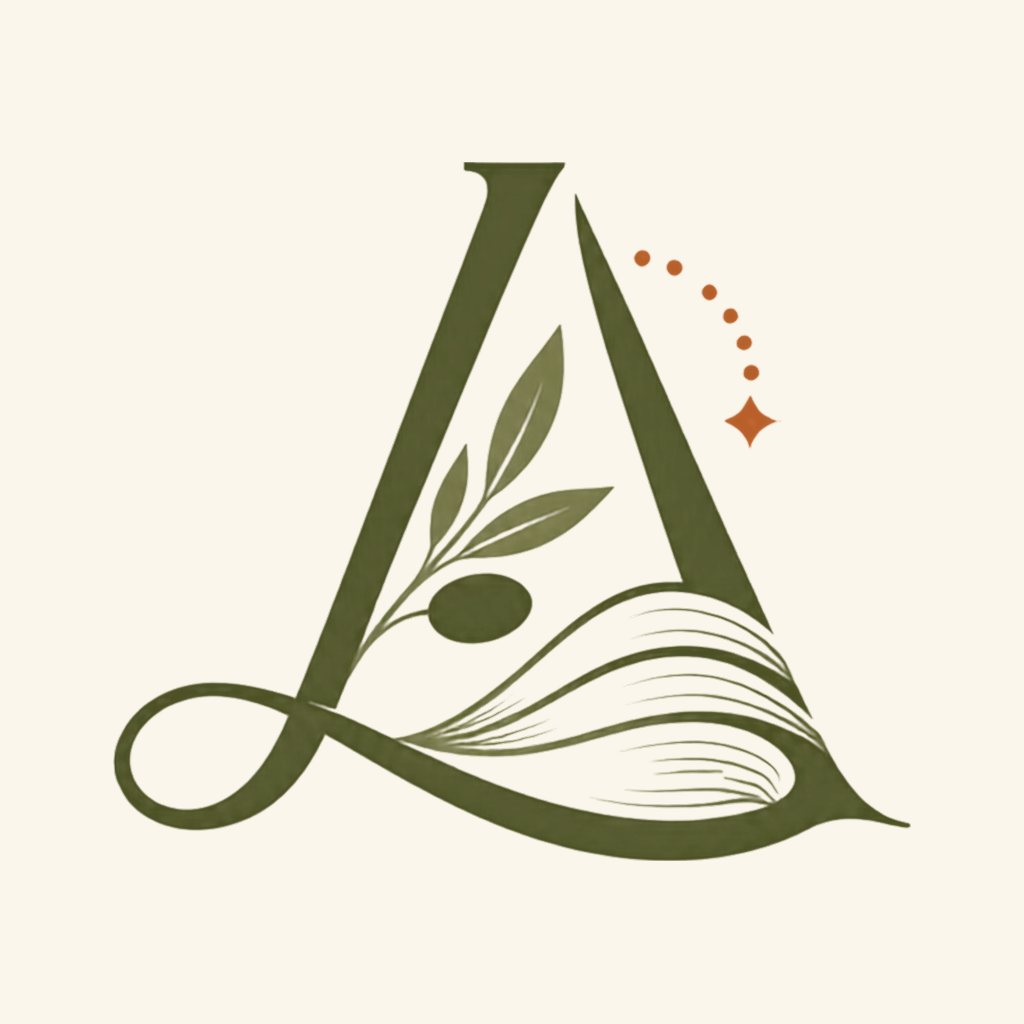
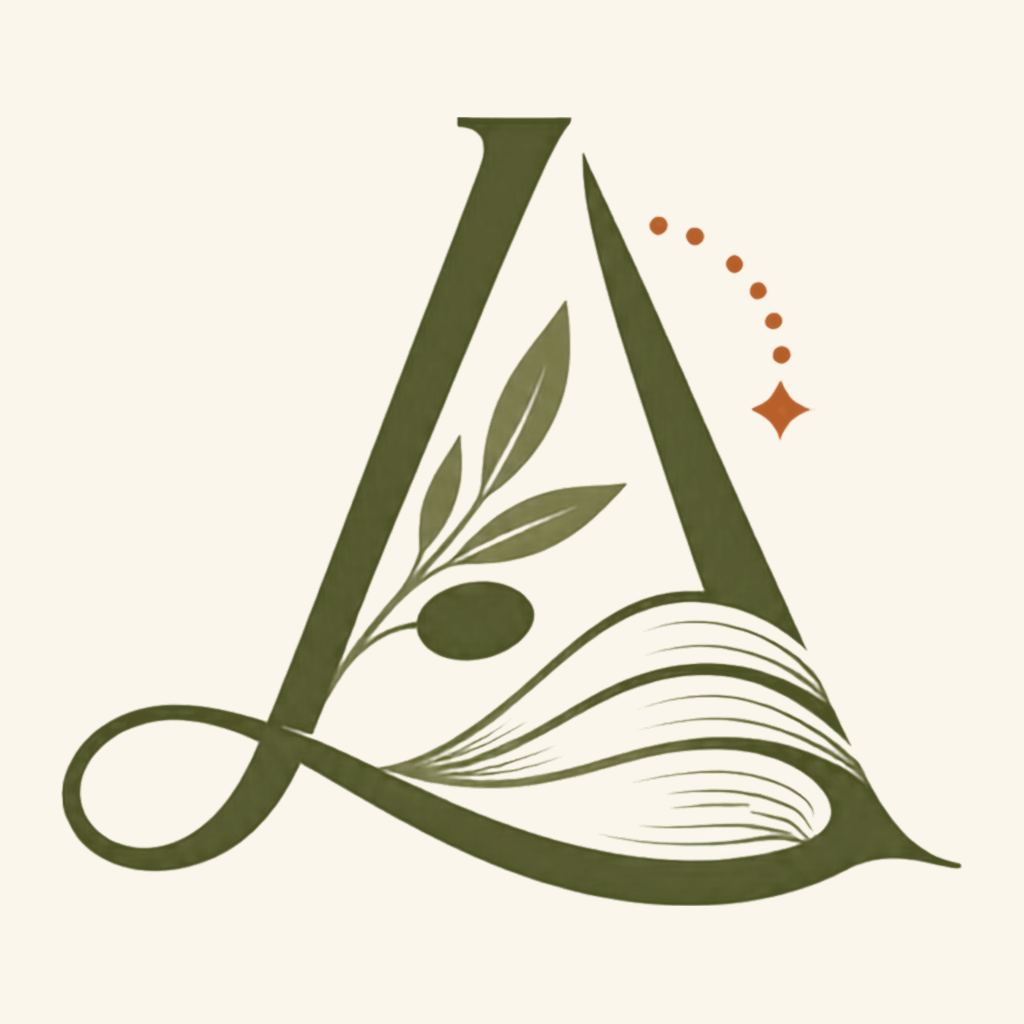
fix(marka): ikon maskeyi dolduruyor — ve splash 280 dp Android 12+'ta kırpılırdı (21.116)
CİHAZDA GÖRÜLDÜ, SONRA ÖLÇÜLDÜ. Kullanıcı ikonun daire içinde küçük durduğunu
söyledi ve dairenin nereden geldiğini sordu.

DAİRE BİZİM DEĞİL: Google'ın belgesi net — "each device OEM MUST provide a mask,
which the system uses to render all adaptive icons with the same shape".
Android 8+'ta kapatılamıyor; adaptiveIcon kaldırılsa maske kalkmaz.

Ödünleşme ölçüldü: mürekkebin merkezden en dış uzaklığı sanat genişliğinin
%61,7'si (köşelerde kıvılcım, ekmeğin ucu, A'nın ayağı). Hiç kırpılmadan sığmak
için azami oran %54 ve o oranda logo küçük duruyor. Üç oran çizilip bakıldı:
%54 (%0,1 kayıp, küçük) · %75 (%15,4 kayıp, SEÇİLDİ) · %95 (%35,8, "A" kesiliyor).
Büyüklük ile kırpılmazlık bu kompozisyonda aynı anda sağlanamıyor; karar
büyüklükten yana verildi. Ön katman + tek renk %60 → %75; iOS ikonu %78 → %88
(kavisli kare maskesi daireden cömert).

SPLASH'TA ARA BİR DEĞER YANLIŞTI VE DOĞRULAMAMIZ ONU GÖSTEREMEZDİ.
Bir tur imageWidth 280 yazıldı, telefonda kusursuz göründü. Kullanıcı "splash'te
öyle bir zorunluluk yok" deyince araştırıldı: Expo Android 12'nin splash API'sini
BİLDİRİYOR (windowSplashScreenAnimatedIcon) ve API 31+ maskeliyor — "as with
adaptive icons, one-third of the foreground is masked"; ikon zemini yoksa tuval
288 dp, görünen daire 192 dp. Test cihazı Android 11 (API 30) ve o sürümde
androidx kendi UYUM katmanını çiziyor (compat_splash_screen.xml), maskelemiyor.
280 dp'de mürekkep 257 dp'ye çıkıyordu → Android 12+ cihazların HEPSİNDE
[…]

Changed region(s): [[0.0625, 0.0938, 0.9375, 0.9062]]

diff --git a/apps/mobile/app.config.ts b/apps/mobile/app.config.ts
@@ -154,7 +154,30 @@ const config: ExpoConfig = {
         // zemin bir kez zıplar. Değer artık token'dan — gerekçe ikon zemininin künyesinde.
         backgroundColor: customerSand['sand-25'],
         image: './assets/images/splash-icon.png',
-        imageWidth: 76,
+        /*
+          164 dp — büyütme kullanıcı kararı (25.08, *"ekranın ortasında kocaman olsun"*), ÜST SINIR
+          ise Android'in. Önceki değer 76 dp'ydi: cihazda ölçüldü, 408 yoğunlukta ekran 423 dp geniş,
+          yani işaret genişliğin yalnız %18'i kalıyordu. Şimdi %40 — 2,2 katı.
+
+          ── NEDEN 280 DEĞİL, VE BUNU CİHAZ TESTİ YAKALAYAMAZDI ────────────────────────────────
+          Bir tur 280 yazıldı ve elimizdeki telefonda kusursuz göründü. Sebebi yanıltıcıydı: cihaz
+          **Android 11 (API 30)** ve o sürümde androidx kendi UYUM katmanını çiziyor
+          (`compat_splash_screen.xml`), maske uygulamıyor. Oysa Expo Android 12'nin splash API'sini
+          bildiriyor (`windowSplashScreenAnimatedIcon`) ve **API 31+ maskeliyor**: Google'ın deyişiyle
+          *"as with adaptive icons, one-third of the foreground is masked"* — ikon zemini yoksa tuval
+          288 dp, **görünen daire 192 dp**. 280 dp'de mürekkep 257 dp'ye çıkıyordu, yani Android 12+
+          cihazların hepsinde kırpılırdı ve bizim telefonumuz bunu hiç göstermezdi.
+
+          ── SINIR ÖLÇÜLEREK BULUNDU ───────────────────────────────────────────────────────────
+          Mürekkebin merkezden en dış uzaklığı sanat genişliğinin %61,7'si (köşelerde kıvılcım,
+          ekmeğin ucu, A'nın ayağı). Sınırlayıcı çemberin 192 dp'ye sığması için mürekkep ≤ 155,6 dp;
+          sanat kare tuvalin %92'si olduğundan `imageWidth` ≤ 169,5 dp. Üretilen çizim ÖLÇÜLDÜ ve
+          169,5 sınırda 196,5 dp veriyordu (uç pikseller 2,3% taşıyor) — değer **164**'e indirildi,
+          ölçülen çap 191,8 dp.
+
+          Kaynak 512² → 1024² büyütüldü: 164 dp × 4 (xxxhdpi) = 672 px, 512'lik kaynak bulanıklaşırdı.
+        */
+        imageWidth: 164,
       },
     ],
     'react-native-edge-to-edge',

diff --git a/docs/build/21-mobil-uygulama.md b/docs/build/21-mobil-uygulama.md
@@ -5642,6 +5642,57 @@ için bilinçli ayrı klasör). Kullanıcı buradan ara ara bakıp uygulamanın 
   oldu:** `customer.ts` YAPRAK modül (hiç göreli import'u yok) ve pakete **alt yol ihracı** eklendi
   (`"./customer": "./src/customer.ts"`). Paylaşılan alanda **EKLEME**; mevcut düzen korundu.
 
+  **PERDE İŞARETİ BÜYÜTÜLDÜ — 76 dp → 164 dp (kullanıcı kararı 25.08).**
+  *"Ekranın ortasında kocaman olsun."* Ölçüm gerekçeyi verdi: cihaz yoğunluğu 408 (ölçek 2,55),
+  ekran **423 dp** geniş — 76 dp, genişliğin yalnız **%18'i** demekti. Şimdi %40, yani 2,2 katı.
+  Kaynak da 512² → **1024²** büyütüldü (164 dp xxxhdpi'de 656 px eder).
+
+  **ARA BİR DEĞER YANLIŞTI VE CİHAZ TESTİ ONU YAKALAYAMAZDI — kaydı burada duruyor.** Önce 280 dp
+  yazıldı ve elimizdeki telefonda kusursuz göründü. Kullanıcı sordu (*"splash screen'de öyle bir
+  zorunluluk yok diye biliyorum"*), araştırıldı ve ölçüldü: Expo **Android 12'nin splash API'sini**
+  bildiriyor (`windowSplashScreenAnimatedIcon`) ve **API 31+ maskeliyor** — *"as with adaptive icons,
+  one-third of the foreground is masked"*; ikon zemini yoksa tuval 288 dp, görünen daire **192 dp**.
+  Test cihazı **Android 11 (API 30)** ve o sürümde androidx kendi UYUM katmanını çiziyor
+  (`compat_splash_screen.xml`), maskelemiyor. Yani 280 dp Android 12+ cihazların hepsinde kırpılırdı
+  (mürekkep 257 dp) **ve bizim doğrulamamız bunu hiç gösteremezdi.** Sınır ölçülerek bulundu:
+  164 dp → üretilen çizimde tüm mürekkebin çapı **191,5 dp** (izin verilen 192).
+
+  **CİHAZDA DOĞRULANDI — repodaki dosyalar değil, TELEFONDAN GERİ ÇEKİLEN APK ölçüldü**
+  (OPPO CPH1907, Wi-Fi, `adb pull` + kaynak pikselleri):
+
+  | Kaynak | Önce (kurulu APK) | Sonra (kurulu APK) |
+  | --- | --- | --- |
+  | `ic_launcher.webp` | `#399DFC · #0475E0` (Expo mavisi) | `#FAF6EC` %84 + zeytin `#575B31` |
+  | `ic_launcher_background.webp` | `#E6F4FE` %96 | `#FAF6EC` %100 |
+  | `splashscreen_logo.png` | opakların %100'ü `#FFFFFF` | zeytin `#575B31`, saydam zeminde |
+
+  Ekran görüntüsü de alındı: perde zemini **`#FAF6EC` %99,4**, işaret ortada ve genişliğin
+  **~%55'i**. Yani "beyaz üstüne beyaz" hâli artık üretilemiyor.
+
+  *(Derleme yerelde koşuldu: `expo prebuild --clean` + `gradlew app:assembleDebug`. `ANDROID_HOME`
+  ajan kabuğunda tanımlı değildi ve ilk deneme `SDK location not found` ile düştü — SDK
+  `~/Library/Android/sdk`. `expo run:android --device` cihaz adını tanımadı çünkü adb aynı telefonu
+  IP ve mDNS olmak üzere İKİ kayıtla listeliyor; cihaz seçimi atlanıp `adb install -r` kullanıldı.)*
+
+  **İKON ORANLARI BÜYÜTÜLDÜ — ve "daire" sorusunun cevabı kayda geçti (kullanıcı kararı 25.08).**
+  Kullanıcı cihazda gördü: *"resmi daire içerisinde küçültmüşsün… daire hiç olmasın istiyorum."*
+  **Daire bizim değil:** Android 8'den beri her ikon başlatıcının maskesinden geçiyor (ColorOS'ta
+  daire) ve `adaptiveIcon` kaldırılsa maske KALKMAZ, kötüleşir — eski tip ikonu sistem kendi
+  çizdiği zemine oturtup daha da küçültür. Elimizdeki tek değişken maskenin İÇİ.
+
+  Ödünleşme ölçüldü: mürekkebin merkezden en dış uzaklığı sanat genişliğinin **%61,7'si**
+  (köşelerde kıvılcım, ekmeğin ucu, A'nın ayağı), maskenin görünen daire yarıçapı tuvalin
+  **%33,3'ü** → **hiç kırpılmadan sığmak için azami oran %54**, ve o oranda logo küçük duruyor.
+  Üç oran çizilip bakıldı — %54 (%0,1 kayıp, küçük) · **%75 (%15,4 kayıp, seçildi)** · %95
+  (%35,8 kayıp, "A" kesiliyor). Yani **büyüklük ile kırpılmazlık bu kompozisyonda aynı anda
+  sağlanamıyor**; karar büyüklükten yana verildi.
+  Ön katman ve tek renk **%60 → %75**; iOS ikonu **%78 → %88** (kavisli kare maskesi daireden
+  cömert). Gerekçe kalıcı olarak `assets/brand/README.md`de.
+
+  **Bu iki değişiklik CİHAZDA DOĞRULANMADI** — kullanıcı yeniden derleme istemedi (*"fakat yeniden
+  derlemeni istemiyorum"*). Yerel maske önizlemeleriyle bakıldı; telefonda görünmesi için bir
+  sonraki derleme gerekiyor.
+
   Doğrulama: `expo config` → `backgroundColor: '#faf6ec'` (ham hex kalktı) · mobil paket
   **786/786** · `@lezzet/design-tokens` birim **30/30** · mobil + web + tokens typecheck temiz · lint temiz.
 
